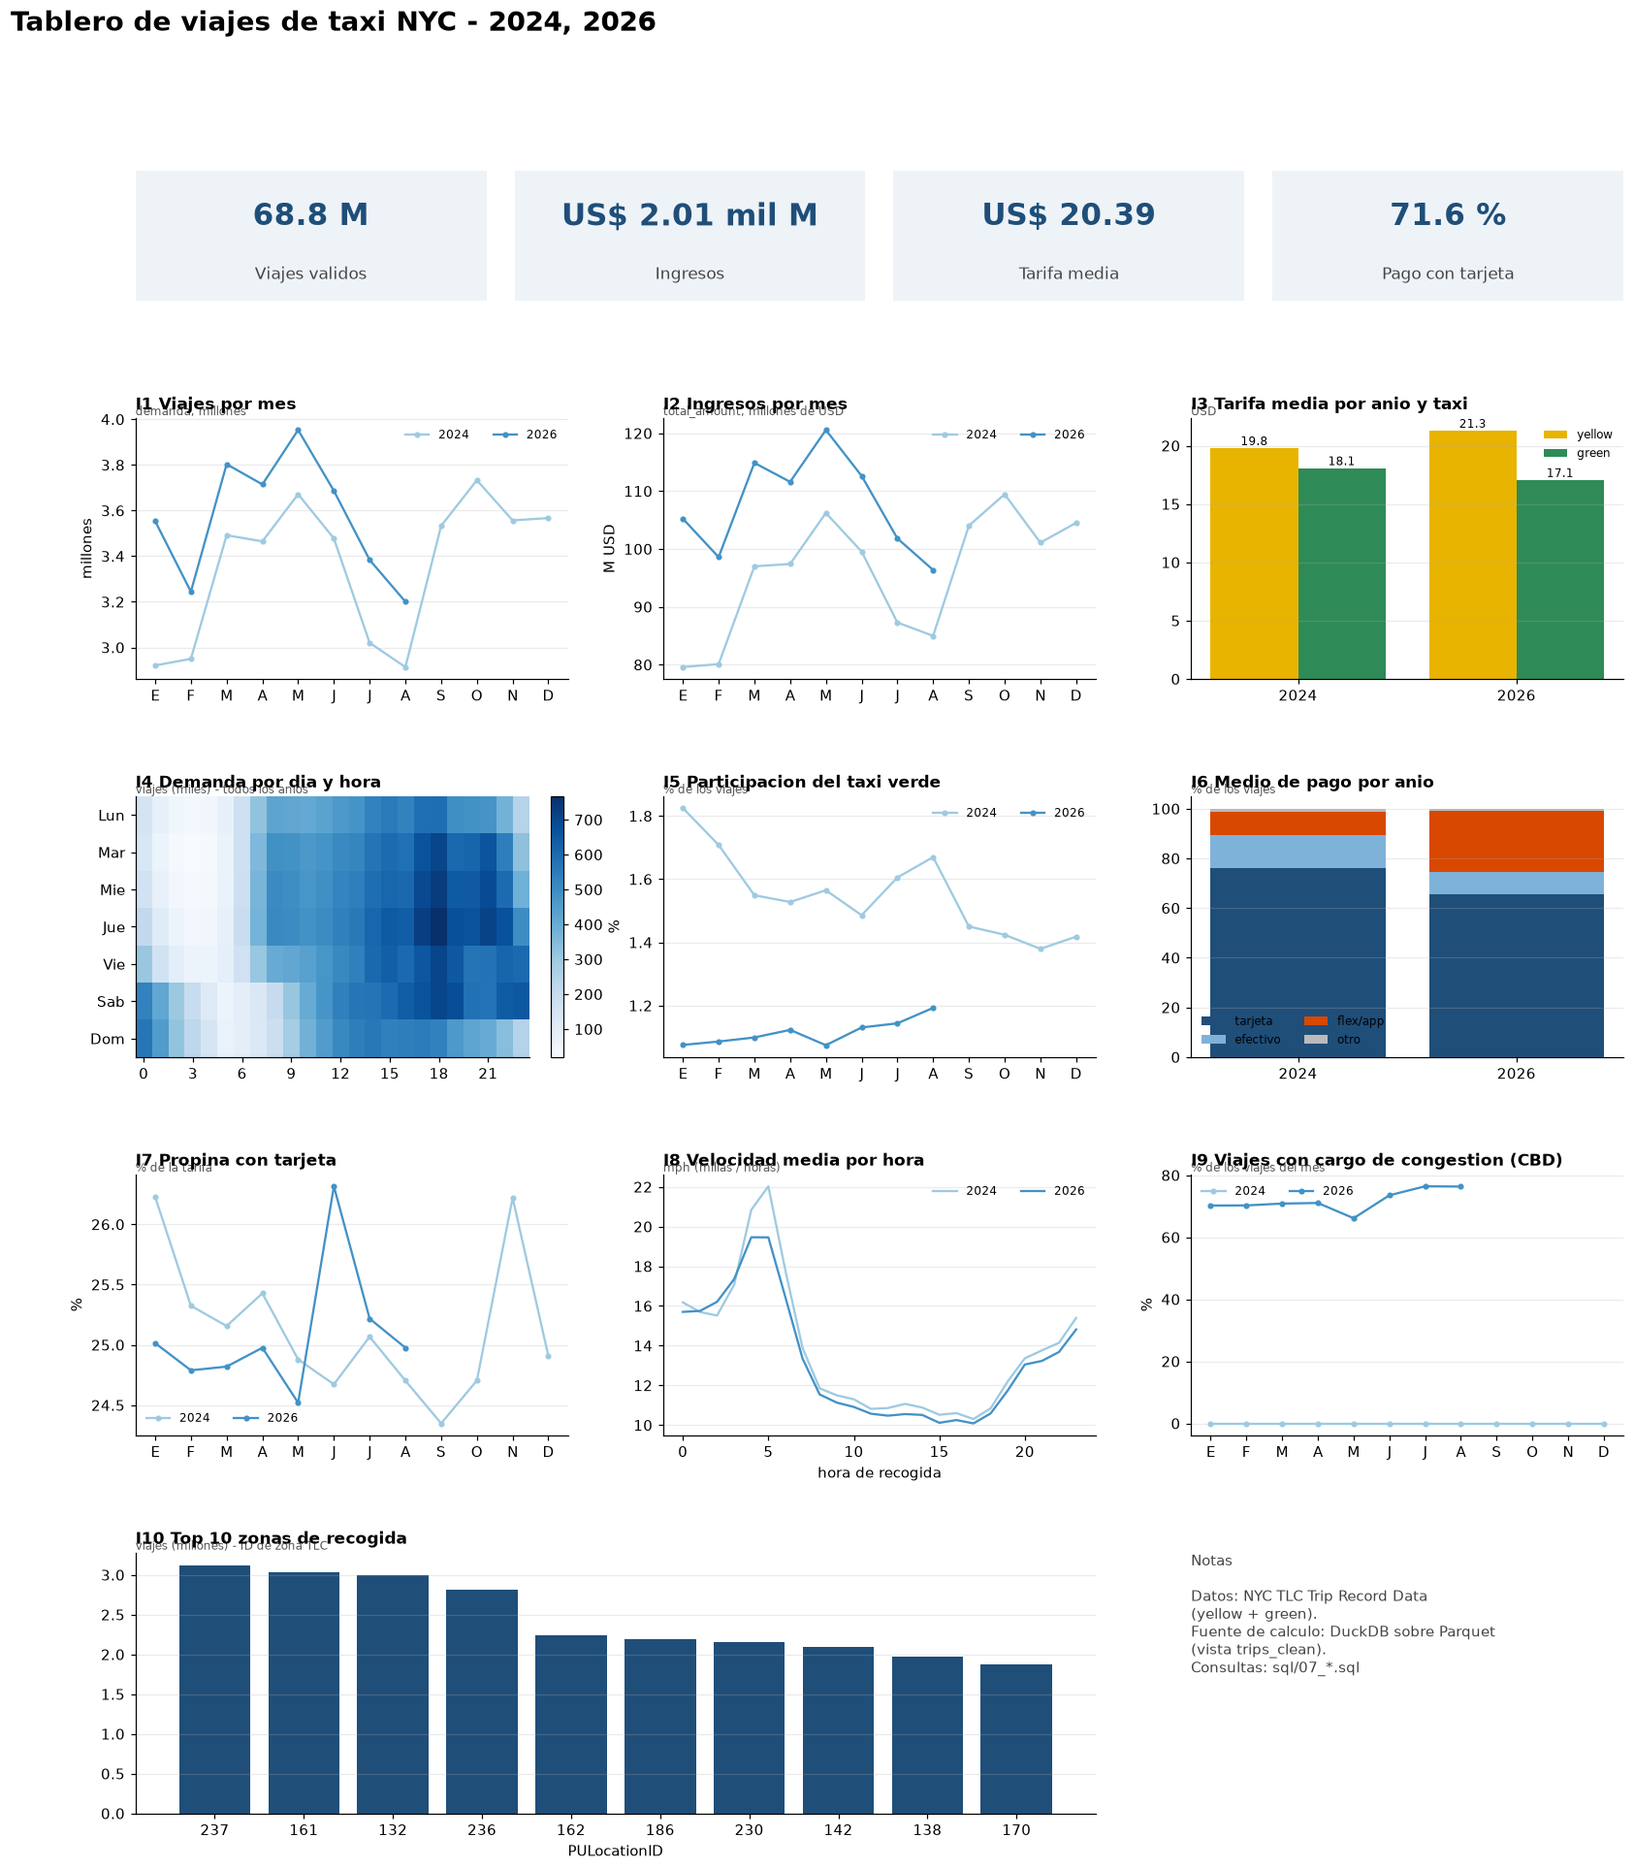
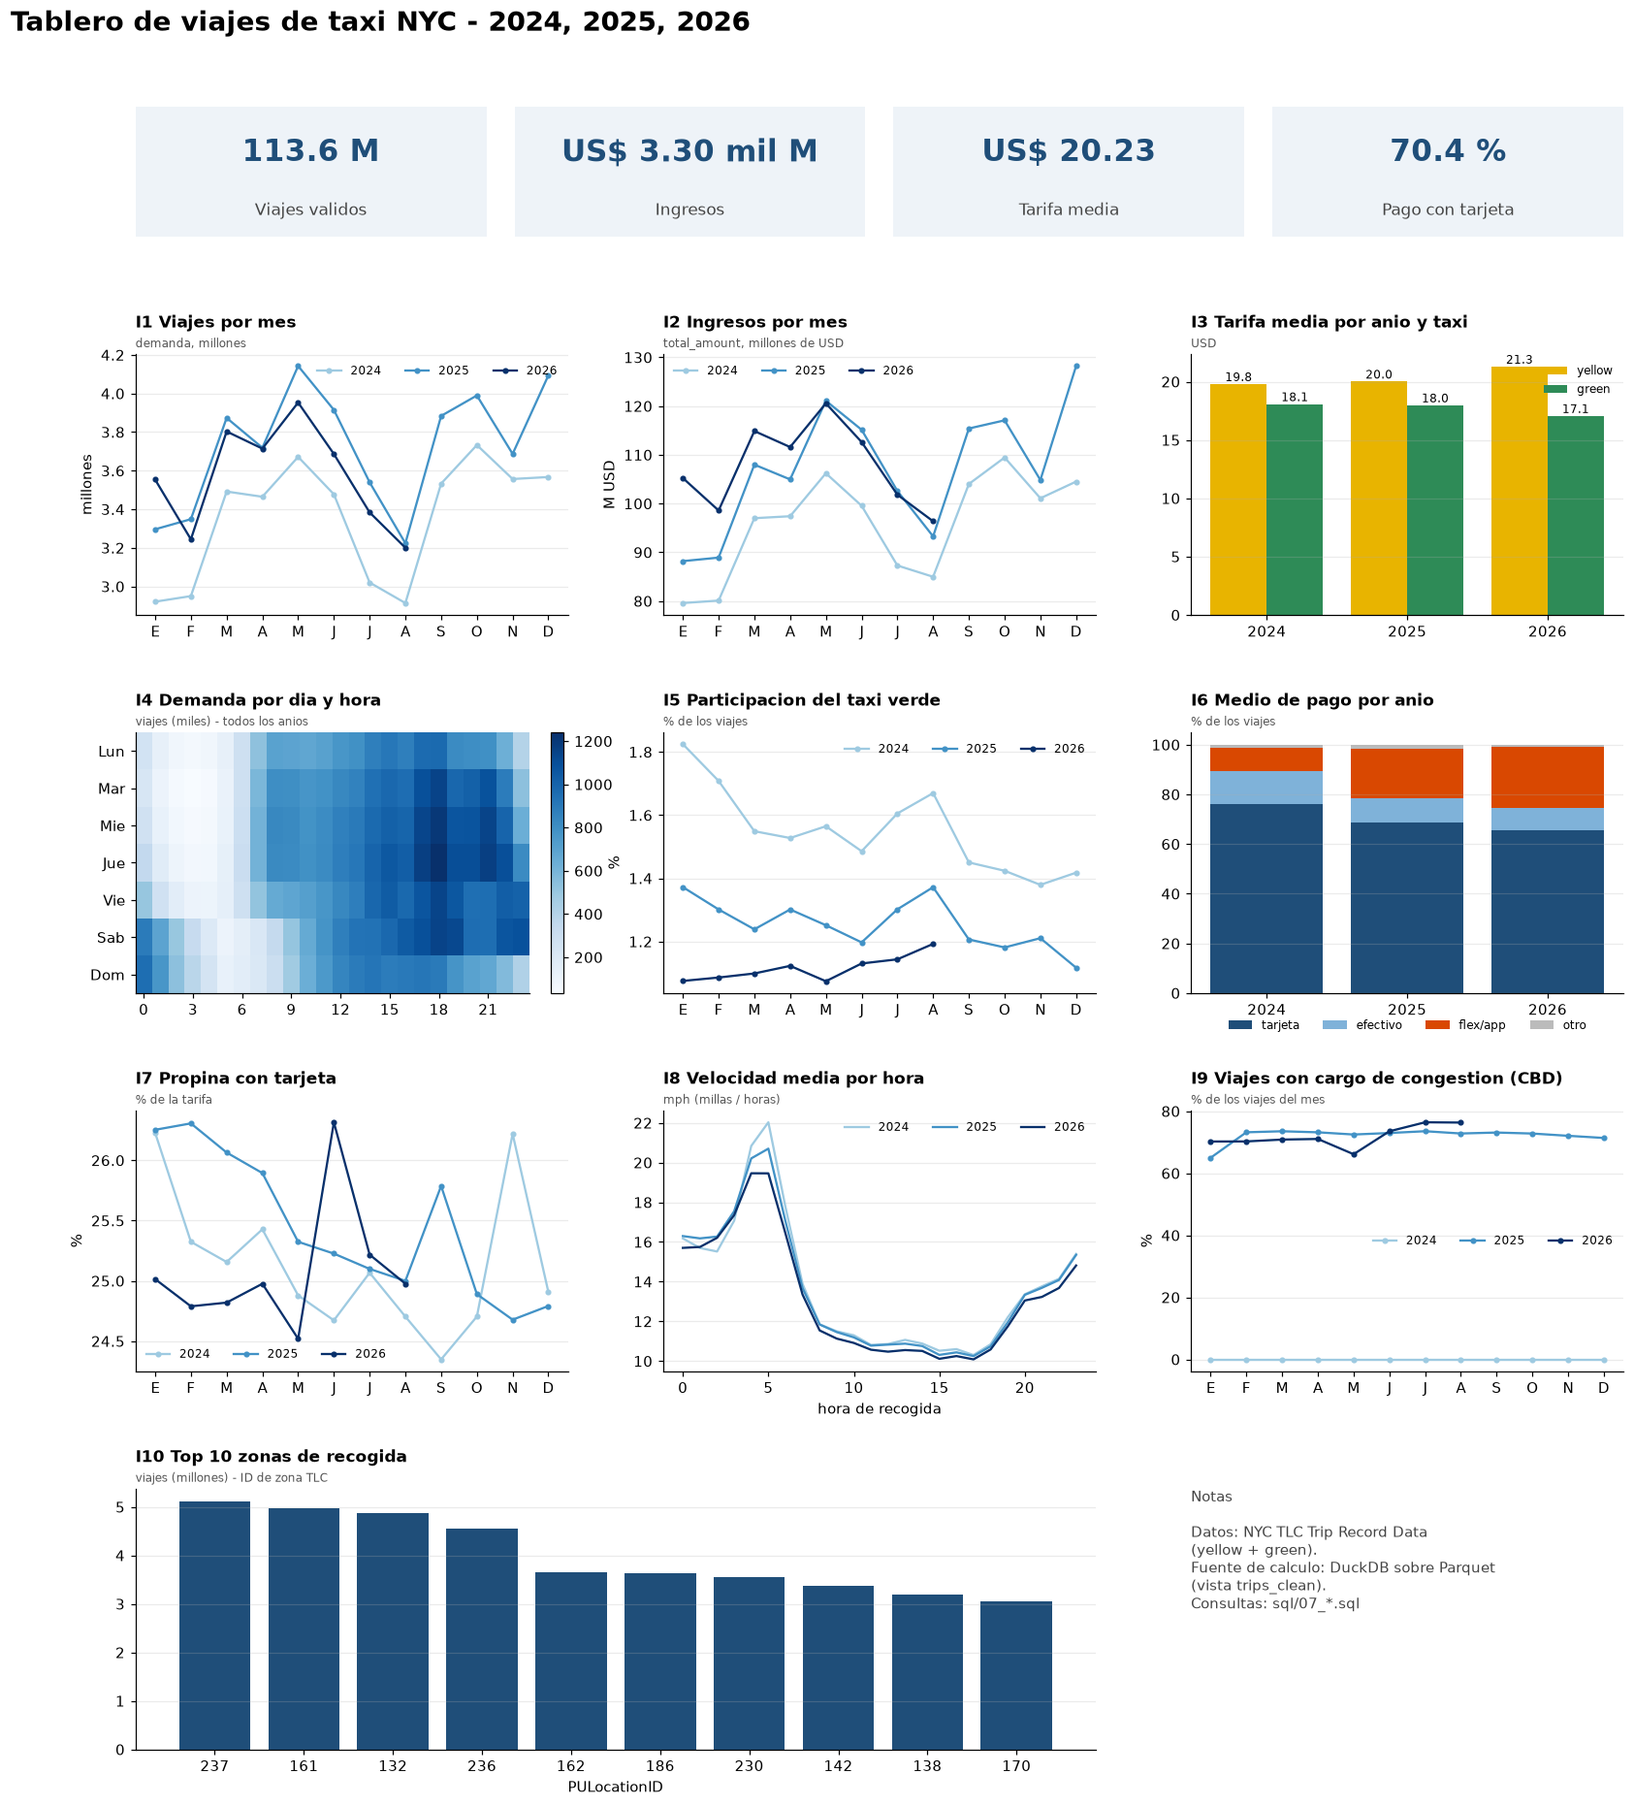
Ejercicio 9 y dashboard Metabase

diff --git a/scripts/metabase_dashboard.py b/scripts/metabase_dashboard.py
@@ -1,0 +1,188 @@
+#!/usr/bin/env python3
+"""Crea en Metabase el tablero del Ejercicio 7 usando su API.
+
+Pasos (idempotente, se puede volver a ejecutar):
+  1. crea data/processed/metabase.duckdb con las vistas de sql/00_views.sql
+     (solo vistas: Metabase consulta los Parquet directamente);
+  2. si Metabase no esta configurado, crea el usuario administrador;
+  3. registra la base DuckDB en Metabase (modo solo lectura);
+  4. crea/actualiza una pregunta SQL por cada consulta sql/07_*.sql;
+  5. crea/actualiza el tablero "Lab 8 - Viajes de taxi NYC".
+
+Se ejecuta dentro del contenedor `lab`, que ve los mismos datos que Metabase
+(/workspace/data) y la misma version de DuckDB que su driver:
+
+    docker compose exec -e MB_EMAIL=<correo> -e MB_PASSWORD=<clave> \
+        lab python scripts/metabase_dashboard.py
+
+MB_EMAIL/MB_PASSWORD son las credenciales del administrador local de Metabase
+(si Metabase aun no se configuro, el script lo crea con ellas).
+"""
+
+import os
+import sys
+from pathlib import Path
+
+import requests
+
+sys.path.insert(0, str(Path(__file__).parent))
+import labutil as lu
+
+MB_URL = os.environ.get("MB_URL", "http://metabase:3000")
+MB_EMAIL = os.environ["MB_EMAIL"]
+MB_PASSWORD = os.environ["MB_PASSWORD"]
+DB_FILE = lu.PROCESSED / "metabase.duckdb"
+DB_NAME = "Lab 8 DuckDB"
+TABLERO = "Lab 8 - Viajes de taxi NYC"
+MARCA = "[lab8-auto] "  # prefijo en la descripcion para reconocer lo creado por el script
+
+
+def sql_de(nombre: str) -> str:
+    return lu.sql_text(f"{nombre}.sql").strip().rstrip(";")
+
+
+def por_anio(nombre: str, cols: str) -> str:
+    """Envuelve la consulta para que el anio sea texto (serie por anio en Metabase)."""
+    return f"SELECT CAST(anio AS VARCHAR) AS anio, {cols}\nFROM (\n{sql_de(nombre)}\n) q"
+
+
+KPI = sql_de("07_kpi")
+DIAS = "CASE dia WHEN 1 THEN '1 Lun' WHEN 2 THEN '2 Mar' WHEN 3 THEN '3 Mie' WHEN 4 THEN '4 Jue' " \
+       "WHEN 5 THEN '5 Vie' WHEN 6 THEN '6 Sab' ELSE '7 Dom' END"
+USD = {"number_style": "currency", "currency": "USD"}
+
+
+def linea(dim, serie, metrica, titulo_y):
+    return {"graph.dimensions": [dim, serie], "graph.metrics": [metrica],
+            "graph.y_axis.title_text": titulo_y, "graph.show_values": False}
+
+
+# (nombre, descripcion, sql, display, visualization_settings, size_x, size_y)
+TARJETAS = [
+    ("KPI Viajes validos", "Total de viajes en trips_clean.", f"SELECT viajes FROM ({KPI}) q", "scalar",
+     {"scalar.compact_primary_number": True}, 6, 3),
+    ("KPI Ingresos", "Suma de total_amount (USD).", f"SELECT ingresos FROM ({KPI}) q", "scalar",
+     {"scalar.compact_primary_number": True, "column_settings": {'["name","ingresos"]': USD}}, 6, 3),
+    ("KPI Tarifa media", "Promedio de fare_amount (USD).", f"SELECT tarifa_media FROM ({KPI}) q", "scalar",
+     {"column_settings": {'["name","tarifa_media"]': {**USD, "decimals": 2}}}, 6, 3),
+    ("KPI Pago con tarjeta", "% de viajes con payment_type = 1.", f"SELECT pct_tarjeta FROM ({KPI}) q", "scalar",
+     {"column_settings": {'["name","pct_tarjeta"]': {"suffix": " %", "decimals": 1}}}, 6, 3),
+    ("I1 Viajes por mes", "P1: cuantos viajes hay por mes y como cambia entre anios? sql/07_i1_monthly_trips.sql",
+     por_anio("07_i1_monthly_trips", "mes, viajes"), "line", linea("mes", "anio", "viajes", "viajes"), 12, 6),
+    ("I2 Ingresos por mes (M USD)", "P2: cuanto ingreso generan los viajes cada mes? sql/07_i2_revenue.sql",
+     por_anio("07_i2_revenue", "mes, ingresos_musd"), "line", linea("mes", "anio", "ingresos_musd", "M USD"), 12, 6),
+    ("I3 Tarifa media por anio y taxi", "P3: precio medio por anio y taxi. sql/07_i3_fare_distance.sql",
+     por_anio("07_i3_fare_distance", "taxi, round(tarifa_media, 2) AS tarifa_media"), "bar",
+     {"graph.dimensions": ["anio", "taxi"], "graph.metrics": ["tarifa_media"], "graph.show_values": True,
+      "series_settings": {"yellow": {"color": "#E8B400"}, "green": {"color": "#2E8B57"}}}, 12, 6),
+    ("I4 Demanda por dia y hora", "P4: en que dia y hora se concentra la demanda? sql/07_i4_heatmap.sql",
+     f"SELECT {DIAS} AS dia, hora, viajes FROM (\n{sql_de('07_i4_heatmap')}\n) q", "line",
+     linea("hora", "dia", "viajes", "viajes"), 12, 6),
+    ("I5 Participacion del taxi verde (%)", "P5: % de viajes del taxi verde. sql/07_i5_green_share.sql",
+     por_anio("07_i5_green_share", "mes, pct_verde"), "line", linea("mes", "anio", "pct_verde", "%"), 12, 6),
+    ("I6 Medio de pago por anio (%)", "P6: como cambia el medio de pago? sql/07_i6_payment_mix.sql",
+     por_anio("07_i6_payment_mix", "medio, round(pct, 1) AS pct"), "bar",
+     {"graph.dimensions": ["anio", "medio"], "graph.metrics": ["pct"], "stackable.stack_type": "stacked"}, 12, 6),
+    ("I7 Propina con tarjeta (% de la tarifa)", "P7: propina de quienes pagan con tarjeta. sql/07_i7_tips.sql",
+     por_anio("07_i7_tips", "mes, propina_pct"), "line", linea("mes", "anio", "propina_pct", "%"), 12, 6),
+    ("I8 Velocidad media por hora (mph)", "P8: velocidad promedio durante el dia. sql/07_i8_speed.sql",
+     por_anio("07_i8_speed", "hora, velocidad_mph"), "line", linea("hora", "anio", "velocidad_mph", "mph"), 12, 6),
+    ("I9 Viajes con cargo de congestion CBD (%)", "P9: % de viajes con cbd_congestion_fee. sql/07_i9_cbd_fee.sql",
+     por_anio("07_i9_cbd_fee", "mes, pct_con_cargo"), "line", linea("mes", "anio", "pct_con_cargo", "%"), 12, 6),
+    ("I10 Top 10 zonas de recogida", "P10: zonas con mas recogidas (ID de zona TLC). sql/07_i10_top_zones.sql",
+     f"SELECT CAST(zona AS VARCHAR) AS zona, viajes FROM (\n{sql_de('07_i10_top_zones')}\n) q", "bar",
+     {"graph.dimensions": ["zona"], "graph.metrics": ["viajes"], "graph.x_axis.scale": "ordinal"}, 12, 6),
+]
+
+
+def crear_base_duckdb():
+    if DB_FILE.exists():
+        print(f"Base ya existe: {DB_FILE}")
+        return
+    DB_FILE.parent.mkdir(parents=True, exist_ok=True)
+    con = lu.connect(str(DB_FILE))  # solo crea las vistas sobre los Parquet
+    con.close()
+    print(f"Base creada con vistas sobre Parquet: {DB_FILE}")
+
+
+class Metabase:
+    def __init__(self):
+        self.s = requests.Session()
+
+    def api(self, metodo, ruta, **kw):
+        r = self.s.request(metodo, f"{MB_URL}/api/{ruta}", timeout=300, **kw)
+        if not r.ok:
+            raise RuntimeError(f"{metodo} {ruta}: {r.status_code} {r.text[:300]}")
+        return r.json() if r.content else None
+
+    def preparar_y_entrar(self):
+        props = self.api("GET", "session/properties")
+        if not props.get("has-user-setup"):
+            self.api("POST", "setup", json={
+                "token": props["setup-token"],
+                "user": {"email": MB_EMAIL, "password": MB_PASSWORD,
+                         "first_name": "Lab8", "last_name": "Admin", "site_name": "Lab 8 DuckDB"},
+                "prefs": {"site_name": "Lab 8 DuckDB", "site_locale": "es", "allow_tracking": False},
+            })
+            print("Metabase configurado (usuario administrador creado)")
+        token = self.api("POST", "session", json={"username": MB_EMAIL, "password": MB_PASSWORD})["id"]
+        self.s.headers["X-Metabase-Session"] = token
+        return token
+
+    def base(self):
+        for db in self.api("GET", "database")["data"]:
+            if db["name"] == DB_NAME:
+                return db["id"]
+        db = self.api("POST", "database", json={
+            "engine": "duckdb", "name": DB_NAME,
+            "details": {"database_file": str(DB_FILE), "read_only": True},
+        })
+        print(f"Base registrada en Metabase (id {db['id']})")
+        return db["id"]
+
+    def tarjetas(self, db_id):
+        existentes = {c["name"]: c["id"] for c in self.api("GET", "card", params={"f": "all"})
+                      if (c.get("description") or "").startswith(MARCA) and not c.get("archived")}
+        ids = []
+        for nombre, desc, sql, display, viz, sx, sy in TARJETAS:
+            cuerpo = {"name": nombre, "description": MARCA + desc, "display": display,
+                      "visualization_settings": viz,
+                      "dataset_query": {"type": "native", "database": db_id, "native": {"query": sql}}}
+            if nombre in existentes:
+                self.api("PUT", f"card/{existentes[nombre]}", json=cuerpo)
+                ids.append((existentes[nombre], sx, sy))
+            else:
+                ids.append((self.api("POST", "card", json=cuerpo)["id"], sx, sy))
+            print(f"  pregunta lista: {nombre}")
+        return ids
+
+    def tablero(self, tarjetas):
+        dash = next((d for d in self.api("GET", "dashboard") if d["name"] == TABLERO and not d.get("archived")), None)
+        if dash is None:
+            dash = self.api("POST", "dashboard", json={
+                "name": TABLERO,
+                "description": "Indicadores del Ejercicio 7 calculados con DuckDB sobre los Parquet (vista trips_clean)."})
+        fila, col, dashcards = 0, 0, []
+        for i, (card_id, sx, sy) in enumerate(tarjetas):
+            if col + sx > 24:
+                fila, col = fila + alto, 0
+            dashcards.append({"id": -(i + 1), "card_id": card_id, "row": fila, "col": col,
+                              "size_x": sx, "size_y": sy, "parameter_mappings": [],
+                              "visualization_settings": {}})
+            alto = sy
+            col += sx
+        self.api("PUT", f"dashboard/{dash['id']}", json={"dashcards": dashcards})
+        return dash["id"]
+
+
+def main():
+    crear_base_duckdb()
+    mb = Metabase()
+    mb.preparar_y_entrar()
+    db_id = mb.base()
+    dash_id = mb.tablero(mb.tarjetas(db_id))
+    print(f"Tablero listo: http://localhost:3000/dashboard/{dash_id}")
+
+
+if __name__ == "__main__":
+    main()

diff --git a/docs/09_discusion.md b/docs/09_discusion.md
@@ -1,0 +1,32 @@
+# Ejercicio 9 - Discusión
+
+**9.1 Características de DuckDB más útiles.** Consultar Parquet con `read_parquet('glob', union_by_name=true)` sin cargar nada;
+SQL completo (ventanas, `QUALIFY`, `GROUP BY ALL`, `quantile_cont`); ejecución columnar y paralela (113 M de filas en 1-3 s en una laptop);
+`DESCRIBE`, `parquet_file_metadata` y `glob` para inspeccionar archivos; integración directa con pandas/matplotlib; y que corre embebido, sin servidor.
+
+**9.2 Parquet directo.** *Ventajas:* sin etapa de carga ni duplicación en disco, los archivos nuevos aparecen solos, lectura de solo las columnas necesarias
+y salto de row groups con filtros. *Limitaciones:* cada consulta repite lectura y limpieza (7-8x más lento que la tabla en agregaciones, ~37x en filtros selectivos);
+el esquema puede variar entre archivos (aquí `cbd_congestion_fee` aparece en 2025 y rompió la vista al consultar solo 2024); no hay índices ni actualizaciones.
+
+**9.3 Tablas materializadas.** *Ventajas:* consultas 2-37x más rápidas, datos ya limpios y tipados, resultados consistentes entre consultas, y soporte de joins/transacciones.
+*Limitaciones:* costo de construcción (15 s para 113 M de filas), ~1 GB de disco por año, hay que reconstruirla o actualizarla al llegar archivos nuevos
+y un archivo `.duckdb` admite un solo proceso escritor.
+
+**9.4 Frente a pandas.** Pandas carga todo en memoria: 113 M de filas x ~25 columnas exceden la RAM de una laptop típica, mientras que DuckDB procesa por bloques,
+usa todos los núcleos, solo lee las columnas necesarias y puede hacerlo sin cargar nada. Además, el análisis queda en SQL declarativo y reutilizable.
+Pandas sigue siendo útil para el último paso (graficar resultados agregados pequeños), que es como se usó aquí.
+
+**9.5 Incorporar nuevos datos con cambios mínimos.** Estructura `data/raw/<tipo>/<anio>/`, descarga idempotente parametrizada por año, vistas con glob y `union_by_name`,
+esquema unificado `trips`, limpieza centralizada en `trips_clean` y columnas `data_year/data_month` derivadas del nombre del archivo. Agregar 2025 solo requirió descargar archivos.
+
+**9.6 Qué automatizar en producción.** Descarga programada (cron/Airflow) con alertas cuando falte un mes publicado; validación de esquema y de calidad al ingreso
+(detectar columnas nuevas, fechas imposibles, caída de volumen); conversión/compactación a Parquet particionado derivado; reconstrucción incremental de tablas;
+regeneración del tablero y pruebas de las consultas; control de versiones de datos y monitoreo.
+
+**9.7 Decisiones para la reproducibilidad.** Docker con versiones fijadas; datos fuera de Git con `.gitignore`; scripts parametrizados y verificables (`verify_data.py`);
+SQL en archivos versionados, no incrustado en notebooks; rutas relativas vía `labutil.py`; notebooks ejecutados de principio a fin con salidas; commits pequeños;
+benchmark y tablero como scripts reproducibles; resultados en `docs/`.
+
+**9.8 Lo que no sería evidente con datos pequeños.** Que la calidad se mide a escala (un 5% de registros inválidos son millones de filas y fechas de 2001 en archivos de 2026);
+que el esquema cambia entre años; que las medias engañan con distribuciones sesgadas; que la estrategia de acceso importa (segundos vs. décimas) y que la caché del sistema
+influye en las mediciones; que 100 M de filas ya no caben cómodamente en pandas; y que un cambio de captura (el 25% de `payment_type = 0`) puede alterar silenciosamente cualquier indicador.

diff --git a/docs/metabase.md b/docs/metabase.md
@@ -1,0 +1,53 @@
+# Tablero en Metabase (Ejercicio 7.4 - 7.5)
+
+Además del tablero estático de matplotlib (`docs/dashboard.png`), los mismos
+indicadores se publicaron en **Metabase**, la herramienta incluida en el
+ambiente Docker. Evidencia: [`metabase_dashboard.png`](metabase_dashboard.png).
+
+## Cómo se construye
+
+Todo lo hace `scripts/metabase_dashboard.py` por medio de la API de Metabase,
+por lo que el tablero se puede reconstruir desde cero:
+
+```bash
+docker compose up -d
+docker compose exec -e MB_EMAIL=<correo> -e MB_PASSWORD=<clave> lab python scripts/metabase_dashboard.py
+# -> Tablero listo: http://localhost:3000/dashboard/<id>
+```
+
+1. Crea `data/processed/metabase.duckdb` que contiene **solo vistas** (`sql/00_views.sql`)
+   sobre `/workspace/data/raw/**/*.parquet`. Metabase consulta los Parquet directamente; no se copia ningún dato.
+2. Si Metabase no está configurado, crea el usuario administrador con `MB_EMAIL`/`MB_PASSWORD`.
+3. Registra la base en Metabase con el driver DuckDB en modo **solo lectura**
+   (un archivo `.duckdb` admite un solo proceso escritor).
+4. Crea o actualiza una pregunta SQL nativa por indicador y arma el tablero.
+   Es idempotente: al volver a ejecutarlo actualiza las mismas preguntas.
+
+El script corre dentro del contenedor `lab` porque ahí la ruta de los datos
+(`/workspace/data`) y la versión de DuckDB (1.5.5) coinciden con las del
+contenedor de Metabase y su driver.
+
+## Preguntas del tablero
+
+Cada pregunta usa el texto de su archivo `sql/07_*.sql`. Solo se envuelve en un
+`SELECT` externo cuando hace falta convertir el año, el día o la zona a texto
+para que Metabase los trate como series o categorías.
+
+| Tarjeta | Consulta | Visualización |
+|---------|----------|---------------|
+| KPI Viajes válidos / Ingresos / Tarifa media / Pago con tarjeta | `07_kpi.sql` | número |
+| I1 Viajes por mes | `07_i1_monthly_trips.sql` | líneas por año |
+| I2 Ingresos por mes | `07_i2_revenue.sql` | líneas por año |
+| I3 Tarifa media por año y taxi | `07_i3_fare_distance.sql` | barras agrupadas |
+| I4 Demanda por día y hora | `07_i4_heatmap.sql` | líneas por día (Metabase no tiene mapa de calor) |
+| I5 Participación del taxi verde | `07_i5_green_share.sql` | líneas por año |
+| I6 Medio de pago por año | `07_i6_payment_mix.sql` | barras apiladas |
+| I7 Propina con tarjeta | `07_i7_tips.sql` | líneas por año |
+| I8 Velocidad media por hora | `07_i8_speed.sql` | líneas por año |
+| I9 Viajes con cargo CBD | `07_i9_cbd_fee.sql` | líneas por año |
+| I10 Top 10 zonas | `07_i10_top_zones.sql` | barras |
+
+Cada tarjeta tarda entre 2 y 6 segundos sobre 113.6 M de viajes (2024-2026),
+leyendo los Parquet a través de las vistas. Los valores coinciden con los del
+tablero de matplotlib (113.6 M viajes, US$ 3.30 mil M, tarifa media US$ 20.23,
+70.4 % con tarjeta).
